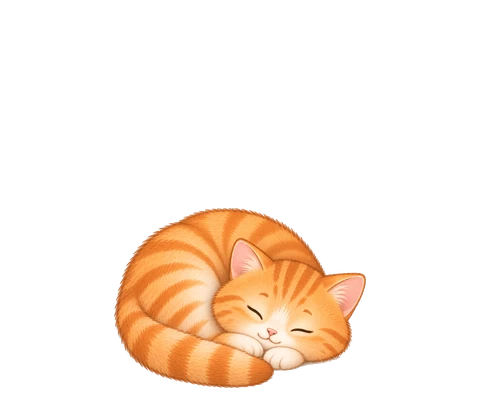
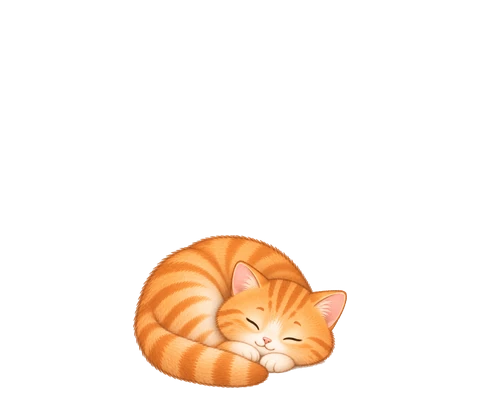
Yard: layered cats and objects, anchors from the Tapuz reference
- Cats drawn at 0.85 of the sitting height, matching the Tapuz combos
- Basket: sitting pose; front cut along the inside edge of the rim
- Box: front cut along the straight top edge of the front face
- Ball and yarn: moved left (OBJECT_SHIFT) so the paw is outside reach
  of the ball and the yarn string runs under the paw; both at 0.8
- Cat anchors per item (ITEMS in index.html) from overlays on the Tapuz combos
- Combos: only the Tapuz set is kept (combos/tapuz); the other cats' combo
  files are deleted from combos/ (raw/ is untouched); USE_COMBOS = false
- process_art.py: only the reference cat's combos are processed; yarn2.png
  is the yarn source (yarn.png is kept in raw/ but not used)

Claude-Session: https://claude.ai/code/session_01QHr8oBPcZajGugo4KkJW4Q

Changed region(s): [[0.2188, 0.51, 0.7812, 0.96]]

diff --git a/index.html b/index.html
@@ -239,6 +239,8 @@
      Make every file with tools/process_art.py from yard/raw/.
      Until a file exists: a cat shows Tapuz as a stand-in, and an item shows its
      old SVG drawing (kept at the bottom of this script as a fallback). */
+  const USE_COMBOS = false;     // true: show a cat already on its object (combos/) when one exists.
+                                // Off while the layered art is the main path.
   const ART_OK = new Set();     // files that have loaded
   const artPath = {
     cat: (catId, pose, n) => `cats/${catId}/${n > 1 ? pose + '-' + n : pose}.webp`,
@@ -254,17 +256,18 @@
      cat:      where the cat's feet go, as percentages of the object image
                (x from the left, y from the top). Every cat is drawn at the
                same size, so there is no per-item scale.
-               Measured from the art: the cushion's top is y 74-97; the basket's
-               inside is y 48-55 and its front y 55-97; the tent's doorway is
-               centre-bottom. The box has no art yet, so its values are a guess. */
+               Anchors come from the Tapuz combos (the reference cat), checked
+               by overlay: the cushion's cat rests at y 82; the box and basket
+               cats sit inside, so their feet are hidden behind the front; the
+               ball and yarn sit left of the cat, so the cat is pushed right. */
   const CAT_WIDTH = 100;        // a cat's image is the full spot width, at its natural size
   const ITEMS = {
-    cushion: { he: 'כָּרִית', tr: 'karit', en: 'cushion', price: 100, pose: 'sleep', cat: { x: 50, y: 82 } },
-    ball:    { he: 'כַּדּוּר', tr: 'kadur', en: 'ball', price: 120, pose: 'lie', wobble: true, cat: { x: 72, y: 95 } },
-    box:     { he: 'קֻפְסָה', tr: 'kufsa', en: 'box', price: 150, pose: 'sit', hasFront: true, cat: { x: 50, y: 80 } },
-    yarn:    { he: 'כַּדּוּר צֶמֶר', tr: 'kadur tsemer', en: 'ball of yarn', price: 200, pose: 'lie', wobble: true, cat: { x: 76, y: 95 } },
-    basket:  { he: 'סַל', tr: 'sal', en: 'basket', price: 300, pose: 'sleep', hasFront: true, cat: { x: 50, y: 60 } },
-    tent:    { he: 'אֹהֶל', tr: 'ohel', en: 'tent', price: 500, pose: 'sit', cat: { x: 50, y: 92 } }
+    cushion: { he: 'כָּרִית', tr: 'karit', en: 'cushion', price: 100, pose: 'sleep', cat: { x: 50, y: 87.5 } },
+    ball:    { he: 'כַּדּוּר', tr: 'kadur', en: 'ball', price: 120, pose: 'lie', wobble: true, cat: { x: 73, y: 93 } },
+    box:     { he: 'קֻפְסָה', tr: 'kufsa', en: 'box', price: 150, pose: 'sit', hasFront: true, cat: { x: 50, y: 87.5 } },
+    yarn:    { he: 'כַּדּוּר צֶמֶר', tr: 'kadur tsemer', en: 'ball of yarn', price: 200, pose: 'lie', wobble: true, cat: { x: 73, y: 94 } },
+    basket:  { he: 'סַל', tr: 'sal', en: 'basket', price: 300, pose: 'sit', hasFront: true, cat: { x: 50, y: 80 } },
+    tent:    { he: 'אֹהֶל', tr: 'ohel', en: 'tent', price: 500, pose: 'sit', cat: { x: 50, y: 94 } }
   };
   const ITEM_ORDER = ['cushion', 'ball', 'box', 'yarn', 'basket', 'tent'];
   const POSE_LABEL = { sit: 'sitting', sleep: 'napping', lie: 'lying' };
@@ -383,7 +386,7 @@
     Object.keys(ITEMS).forEach((id) => {
       required.push(artPath.item(id));
       if (ITEMS[id].hasFront) required.push(artPath.front(id));
-      Object.keys(CATS).forEach((c) => optional.push(artPath.combo(c, id)));
+      if (USE_COMBOS) Object.keys(CATS).forEach((c) => optional.push(artPath.combo(c, id)));
     });
     probe(required, false);
     probe(optional, true);
@@ -501,7 +504,7 @@
         label = 'Empty spot. Put out an item.';
       } else {
         const it = ITEMS[itemId], L = itemLayers(itemId);
-        const combo = v && ART_OK.has(artPath.combo(v.cat, itemId)) ? artPath.combo(v.cat, itemId) : null;
+        const combo = USE_COMBOS && v && ART_OK.has(artPath.combo(v.cat, itemId)) ? artPath.combo(v.cat, itemId) : null;
         if (combo) {
           // One image with the cat already on the object: the best fit, so use it alone.
           inner = `<img class="layer${v.fresh ? ' cat-in' : ''}" src="${combo}" alt="">`;

diff --git a/tools/process_art.py b/tools/process_art.py
@@ -40,6 +40,11 @@ W, H = 480, 400
 BASELINE_PAD = 12     # px between the lowest cat/item pixel and the canvas bottom
 SIT_HEIGHT = 250      # each cat's sitting pose is scaled to this content height;
                       # the same factor is used for that cat's other poses
+CAT_SIZE = 0.85       # cats in the layers are drawn at this fraction of SIT_HEIGHT. Measured
+                      # against the Tapuz combos (the reference): their cat is about 0.85 of
+                      # the layer's sitting height, while the objects match the combos at 1.0
+OBJECT_SIZE = {'ball': 0.8, 'yarn': 0.8}  # extra size factor per object, on top of the shared item scale (cats are unchanged)
+OBJECT_SHIFT = {'ball': -60, 'yarn': -20}  # canvas px, sideways. Keeps the ball out of the paw's reach (the cat sits to its right)
 REF_CAT = 'tapuz'     # items use the same scale as this cat's sitting pose, so sizes carry over
 TRIM_ALPHA = 0.1      # alpha below this is ignored when finding the content box
 WEBP_QUALITY = 90
@@ -48,10 +53,20 @@ GRASS = np.array([0x9D, 0xCC, 0x6E], np.float32)
 # Front walls, as polygons in canvas percent (x, y from top-left). The wall is
 # the part a cat sits behind (box front, basket rim). It becomes the object's
 # front layer; the back layer is the object with the wall cut away.
-# PLACEHOLDER coordinates: tune by eye once the box and basket art exists.
+# Measured on the Tapuz combos: the box front starts at about y 310 of 400 and the
+# basket rim at about y 280; both span x 27-73% (the object's front face).
+# Curved front cuts, in RAW pixels (the raw image is 1254 px). For the basket, the cut is the top
+# edge of the front rim, where the inside of the basket meets the rope, measured on raw/basket.png:
+# it sits at about y 502 at the centre and rises to about y 430 at the handles. Everything below it
+# (the rope and the front weave) is the front layer, so a cat inside the basket is hidden from there down.
+FRONT_CURVES = {
+    # The box's front face has a nearly straight top edge at about y 604 (its rim). A cat inside is
+    # hidden below it, so the front layer is everything below that line.
+    'box': [(222, 604), (400, 604), (627, 604), (850, 604), (1032, 604)],
+    'basket': [(180, 430), (250, 455), (350, 475), (450, 490), (550, 498), (627, 502), (700, 498),
+               (800, 490), (900, 478), (1000, 455), (1075, 430)],
+}
 FRONT_WALLS = {
-    'box':    [(15, 60), (85, 60), (85, 98), (15, 98)],
-    'basket': [(15, 55), (85, 55), (85, 98), (15, 98)],
 }
 
 POSE_RE = re.compile(r'^(?P<cat>[a-z]+)-(?P<pose>sit|sleep|lie)(?:-(?P<n>\d+))?$')
@@ -164,11 +179,16 @@ def save_webp(canvas, path):
         path, 'WEBP', quality=WEBP_QUALITY, method=6)
 
 
-def wall_mask(points):
-    S = 4  # supersample for smooth polygon edges
+def wall_mask(points_px):
+    """Polygon in canvas pixels -> 0..1 mask, supersampled for smooth edges."""
+    S = 4
     m = Image.new('L', (W * S, H * S), 0)
-    ImageDraw.Draw(m).polygon([(x / 100 * W * S, y / 100 * H * S) for x, y in points], fill=255)
+    ImageDraw.Draw(m).polygon([(x * S, y * S) for x, y in points_px], fill=255)
     return np.asarray(m.resize((W, H), Image.Resampling.BOX), np.float32)[..., None] / 255
+
+
+def percent_to_px(points):
+    return [(x / 100 * W, y / 100 * H) for x, y in points]
 
 
 def over_grass(canvas):
@@ -190,8 +210,8 @@ def process_cat(cat, frames, log):
         cut[key] = trim(rgba)
         log(f'  {path.name}: backdrop {bg.round().astype(int).tolist()}{" (green spill fix)" if green else ""}, '
             f'content {cut[key].shape[1]}x{cut[key].shape[0]}')
-    s = SIT_HEIGHT / cut[('sit', 1)].shape[0]
-    log(f'  {cat}: scale {s:.4f} (sit height {cut[("sit", 1)].shape[0]} px -> {SIT_HEIGHT} px)')
+    s = SIT_HEIGHT * CAT_SIZE / cut[('sit', 1)].shape[0]
+    log(f'  {cat}: scale {s:.4f} (sit height {cut[("sit", 1)].shape[0]} px -> {SIT_HEIGHT * CAT_SIZE:.0f} px)')
     rows = []
     for key in sorted(frames):
         pose, n = key
@@ -205,17 +225,34 @@ def process_cat(cat, frames, log):
 def process_item(name, path, scale, log):
     """scale is shared by every item, so an object drawn at the reference cat's size
     comes out at the reference cat's size in the yard."""
+    scale = scale * OBJECT_SIZE.get(name, 1.0)
     rgba, bg, green = cut_out(load(path))
+    ys, xs = np.where(rgba[..., 3] > TRIM_ALPHA)
+    x_raw, y_raw = xs.min(), ys.min()          # where the trimmed content starts in the raw image
     rgba = trim(rgba)
     h, w = rgba.shape[:2]
     log(f'  {path.name}: backdrop {bg.round().astype(int).tolist()}, content {w}x{h}, '
         f'scale {scale:.4f} -> {round(h * scale)}x{round(w * scale)} px')
     canvas = compose(rgba, scale, name)
+    dx = OBJECT_SHIFT.get(name, 0)
+    if dx:
+        moved = np.zeros_like(canvas)
+        moved[:, max(0, dx):W + min(0, dx)] = canvas[:, max(0, -dx):W - max(0, dx)]
+        canvas = moved
     outputs = [OBJ_OUT / f'{name}.webp']
-    if name not in FRONT_WALLS:
+    if name not in FRONT_WALLS and name not in FRONT_CURVES:
         save_webp(canvas, outputs[0])
         return outputs, canvas
-    wall = wall_mask(FRONT_WALLS[name])
+    if name in FRONT_CURVES:
+        # Raw-pixel points -> canvas pixels, using the same placement compose() gives the content.
+        nw, nh = max(1, round(w * scale)), max(1, round(h * scale))
+        x0, y0 = round(W / 2 - nw / 2), H - BASELINE_PAD - nh
+        sx, sy = nw / w, nh / h
+        pts = [(x0 + (x - x_raw) * sx, y0 + (y - y_raw) * sy) for x, y in FRONT_CURVES[name]]
+        pts += [(pts[-1][0], H + 20), (pts[0][0], H + 20)]     # close the cut below the canvas
+        wall = wall_mask(pts)
+    else:
+        wall = wall_mask(percent_to_px(FRONT_WALLS[name]))
     back, front = canvas.copy(), canvas.copy()
     back[..., 3:] *= 1 - wall      # back: the object without the wall
     front[..., 3:] *= wall         # front: only the wall
@@ -263,6 +300,9 @@ def main():
             cat_frames[m['cat']][(m['pose'], int(m['n'] or 1))] = p
         else:
             items[p.stem] = p
+    # yarn2.png is the current yarn (ball with the string toward the cat); yarn.png is kept in raw/ but not used.
+    if 'yarn2' in items:
+        items['yarn'] = items.pop('yarn2')
 
     log = print
     sheet_rows = []
@@ -270,7 +310,8 @@ def main():
         log(f'cat {cat}')
         sheet_rows.extend(process_cat(cat, cat_frames[cat], log))
 
-    combos = sorted((RAW / 'combos').glob('*.png'))
+    # Only the reference cat's combos are kept; the layered art covers every other cat.
+    combos = sorted(p for p in (RAW / 'combos').glob('*.png') if p.stem.split('-', 1)[0] == REF_CAT)
     if items or combos:
         ref = cat_frames.get(REF_CAT, {}).get(('sit', 1))
         if ref is None:
